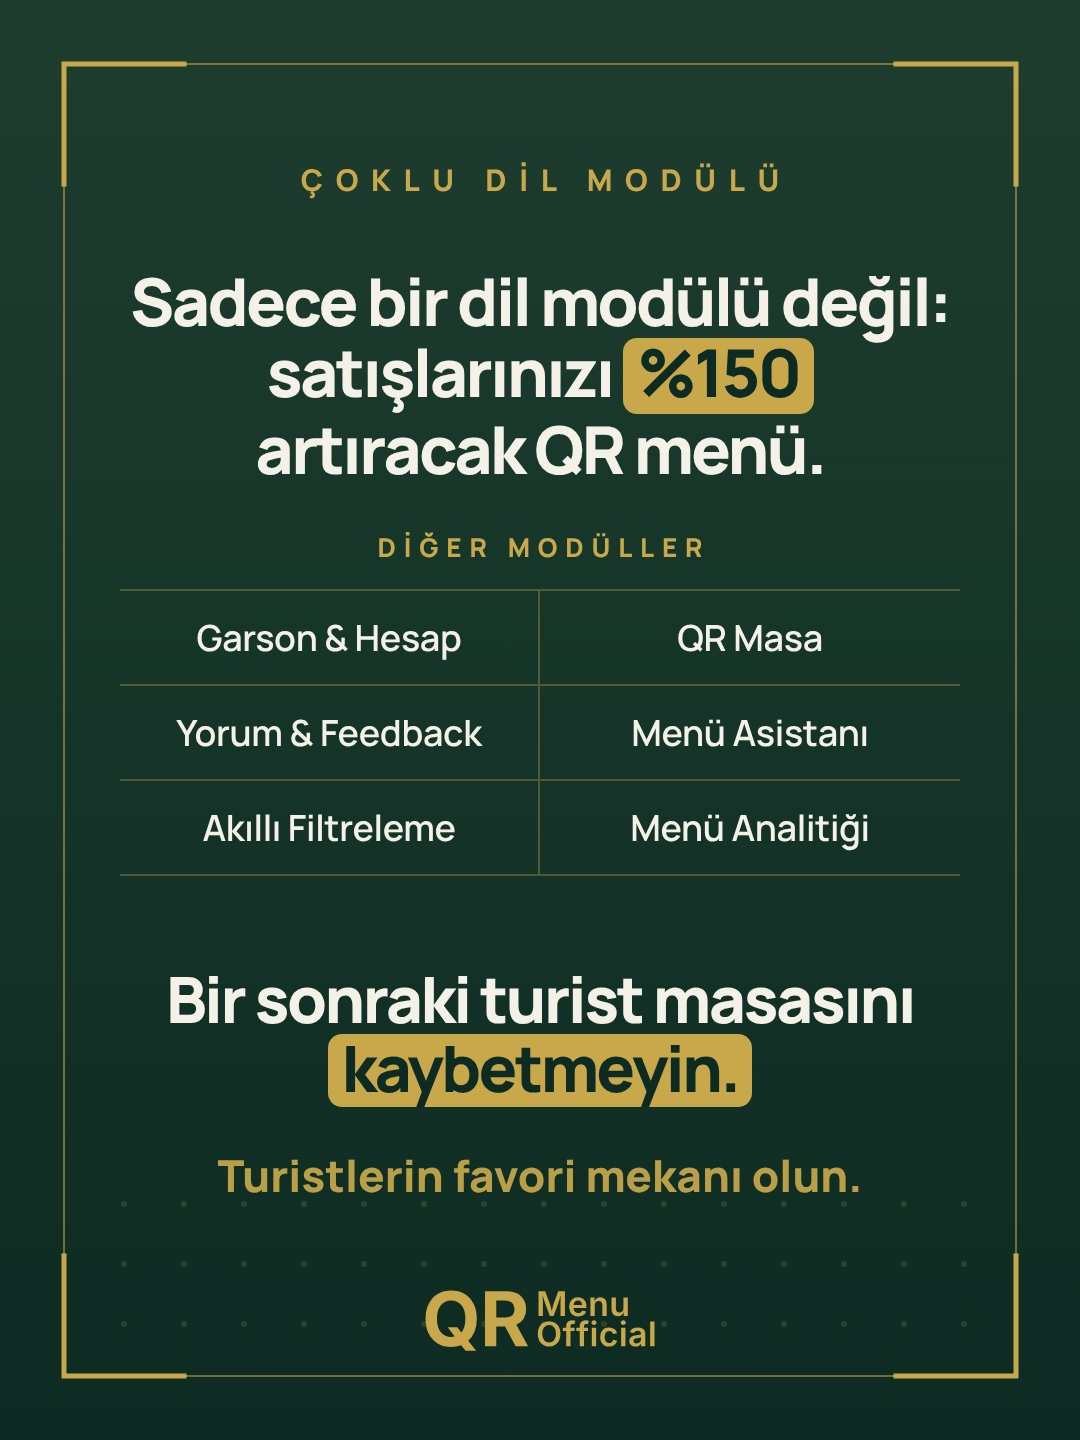
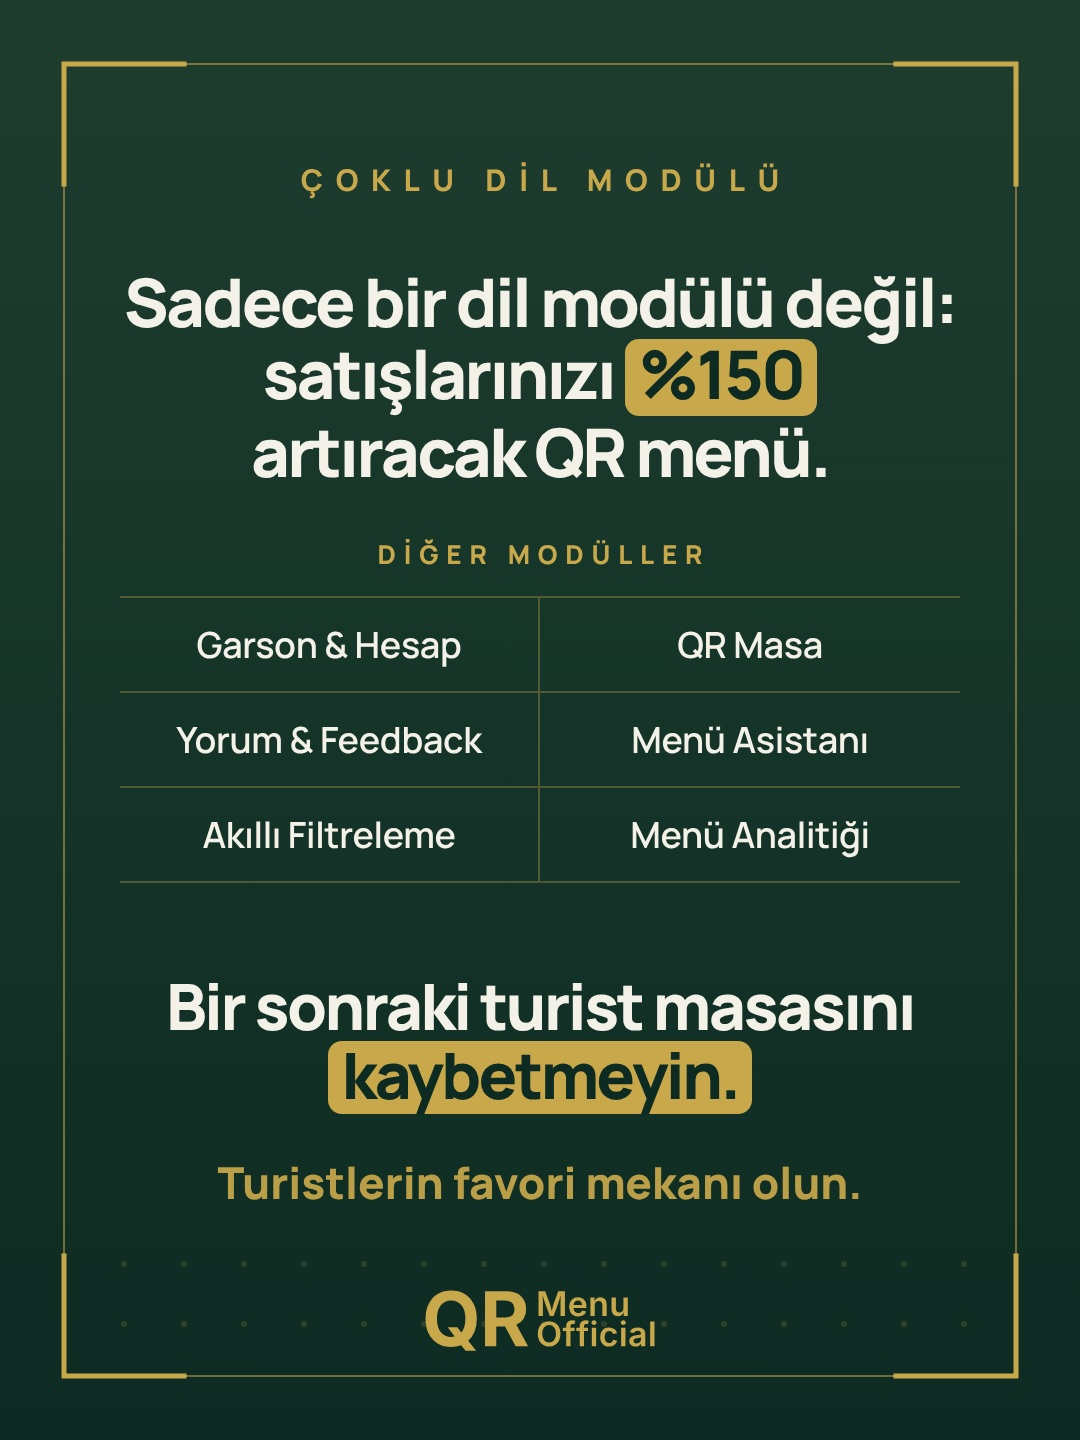
Carousel slayt 5: başlık genişliği tabloya eşit, 8 px ritim
Claude-Session: https://claude.ai/code/session_01FBw9rVwrniVjyFvtgVdFXq

diff --git a/analiz/carousel-dil/carousel-v6.html b/analiz/carousel-dil/carousel-v6.html
@@ -135,7 +135,7 @@ body{background:linear-gradient(var(--y2),var(--y))!important;color:var(--off)!i
 .tk i svg{stroke:#C9A84C!important}
 .tk .c2t{font-size:38px;line-height:1.26;font-weight:500;letter-spacing:-.01em}
 .tk .c2t b{color:var(--g);font-weight:800}
-.s5 .eb{margin-top:44px;font-weight:800;font-size:26px;letter-spacing:.3em;padding-left:.3em;color:var(--g)}
+.s5 .eb{margin-top:48px;font-weight:800;font-size:26px;letter-spacing:.3em;padding-left:.3em;color:var(--g)}
 .mods{display:grid;grid-template-columns:1fr 1fr;width:100%;margin-top:24px;border-top:2px solid #C9A84C55}
 .mods span{font-weight:600;font-size:36px;padding:22px 0;border-bottom:2px solid #C9A84C55;letter-spacing:-.01em;text-align:center}
 .mods span:nth-child(odd){border-right:2px solid #C9A84C55}
@@ -197,7 +197,7 @@ const SL={
  </div></div>${nx('Nasıl başlarsınız?','#F4F1E8')}`},
 5:{bg:'zumrut',html:()=>`<div class="lab" style="font-size:30px;padding-top:34px">ÇOKLU DİL MODÜLÜ</div>
  <div class="area c s5" style="top:266px;bottom:230px;justify-content:flex-start">
-  <div class="h" id="H" data-max="66" data-min="56">${L(['Sadece bir dil modülü değil:','satışlarınızı [[%150]]','artıracak QR menü.'])}</div>
+  <div class="h" id="H" data-max="70" data-min="56">${L(['Sadece bir dil modülü değil:','satışlarınızı [[%150]]','artıracak QR menü.'])}</div>
   <div class="eb">DİĞER MODÜLLER</div>
   <div class="mods"><span>Garson &amp; Hesap</span><span>QR Masa</span><span>Yorum &amp; Feedback</span><span>Menü Asistanı</span><span>Akıllı Filtreleme</span><span>Menü Analitiği</span></div>
   <div class="h" id="H2" data-max="64" data-min="52" style="margin-top:88px">${L(['Bir sonraki turist masasını','[[kaybetmeyin.]]'])}</div>
@@ -208,7 +208,7 @@ const n=+(new URLSearchParams(location.search).get('s')||1);
 document.body.className='zumrut';
 document.getElementById('S').innerHTML=SL[n].html();
 if(n==4)document.querySelectorAll('svg circle[r="3"]').forEach(c=>{if(+c.getAttribute('cy')>330&&+c.getAttribute('cy')<1210)c.remove()});
-if(n==5)document.querySelectorAll('svg circle[r="3"]').forEach(c=>{if(+c.getAttribute('cy')>230&&+c.getAttribute('cy')<1170)c.remove()});
+if(n==5)document.querySelectorAll('svg circle[r="3"]').forEach(c=>{if(+c.getAttribute('cy')>230&&+c.getAttribute('cy')<1240)c.remove()});
 if(n==3)document.querySelectorAll('svg circle[r="3"]').forEach(c=>{if(+c.getAttribute('cy')<500&&+c.getAttribute('cx')<700)c.remove()});
 document.fonts.ready.then(()=>{const W=840;
  for(const id of ['H','H2','P','P2']){const e=document.getElementById(id);if(!e)continue;let f=+e.dataset.max||56;const mn=+e.dataset.min||40;
